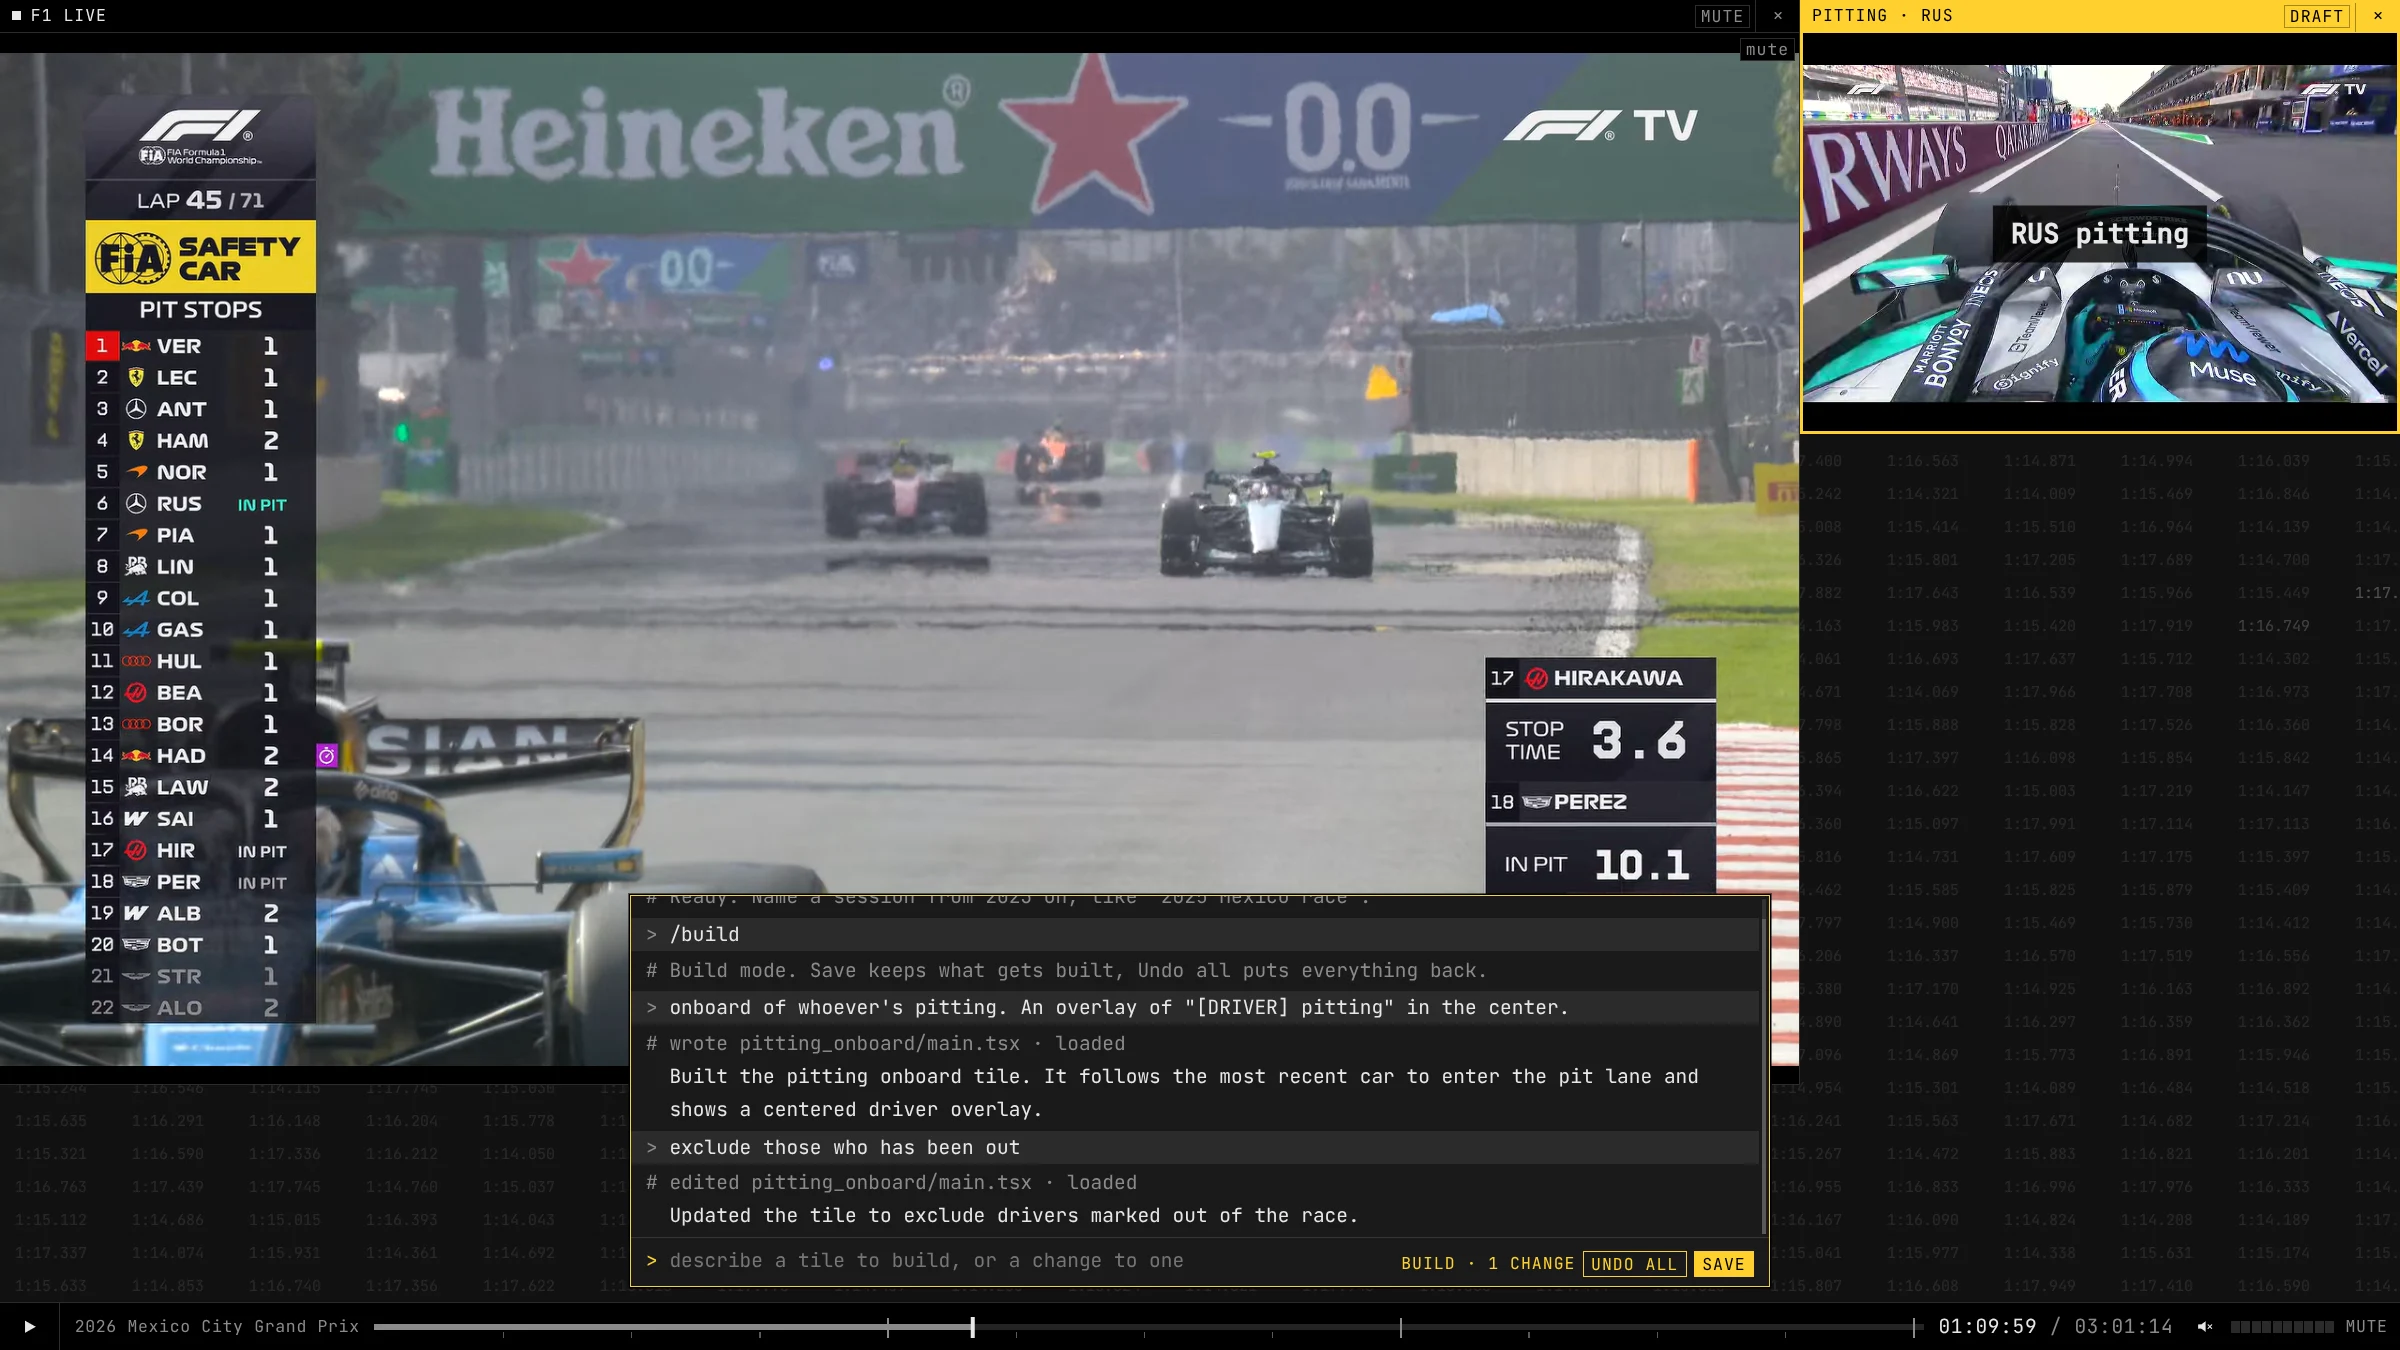
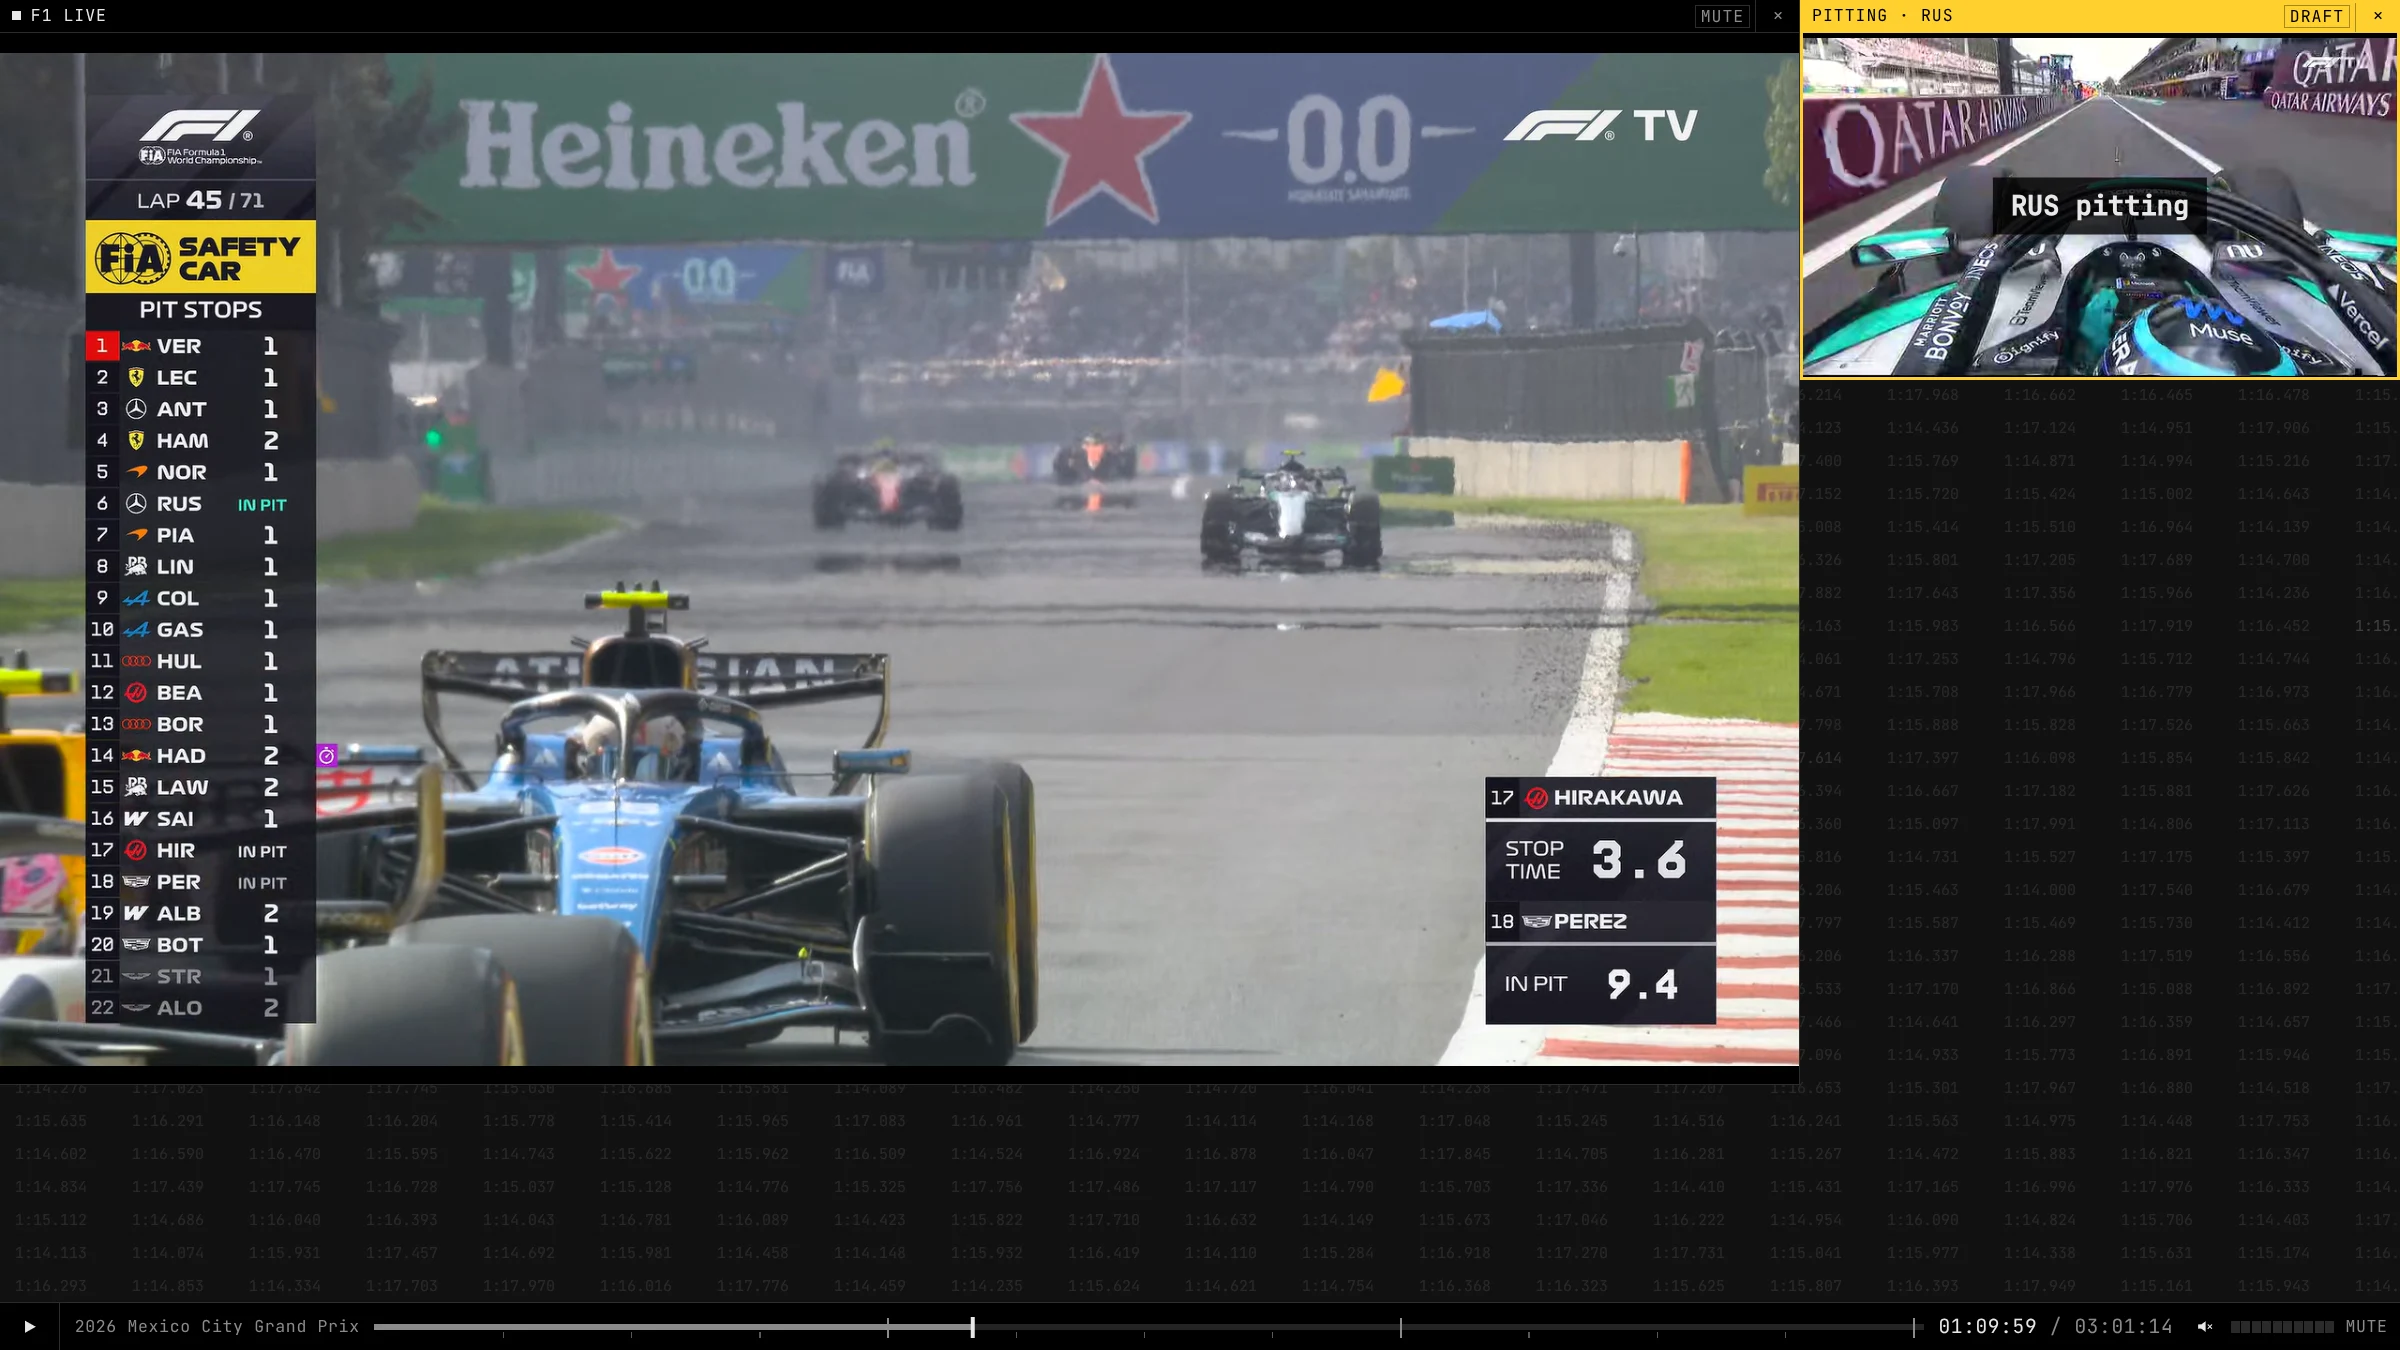
Show the hero's /build slide without the palette
The build slide now reveals shot 3b: the same moment and layout as shot 3, with the yellow DRAFT tile and no
palette, like the other slides. Build mode keeps the palette open, so it was hidden for the screenshot only. The tile
was built fresh with the slide's prompt so it reads DRAFT.

diff --git a/site/src/assets/shots/hero/SHOTS.md b/site/src/assets/shots/hero/SHOTS.md
@@ -9,7 +9,7 @@ design canvas's `Main.dc.html`.
 
 Page slots:
 
-- [x] **H1 · hero.** The page rotates five, each after its prompt is typed: shots 8b, 1, 3, 5b and 2. They're the ones with the palette closed, since the page types the prompt itself, except shot 3, where the build palette and the yellow draft tile are what shows build mode.
+- [x] **H1 · hero.** The page rotates five, each after its prompt is typed: shots 8b, 1, 3b, 5b and 2. They're the ones with the palette closed, since the page types the prompt itself.
 - [x] **M1 · spoiler check, then the jump.** Shots 6d and 6e, cropped to 16:9 with the seek bar. The section plays them as screens: the race on lap 22 (6d), dimmed while the prompt types and the spoiler check is answered, then Verstappen on Hamilton on lap 37 (6e), then a beat of black before it starts over. The palette between them is drawn by the page, so shots 6a, 6b and 6c aren't used.
 - [x] **B1 · build draft, then Save.** Shots 3 and 4.
 - [x] **S1 · suggestion strip with live previews.** Shot 7.
@@ -41,6 +41,7 @@ From the first hero list:
 | [shot1-onboards.png](https://github.com/natheihei/oh-my-f1-viewer/blob/assets/landing-shots/shot1-onboards.png?raw=true) | Onboards of the top 10, and jump to 10 seconds before lights out | 2026 Mexico City Grand Prix · 0:08:32, lap 1 of 71 | The world feed with five red lights and the grid formed up, and ten onboards: HAM, VER, RUS, NOR, LEC, HAD, ANT, LIN, GAS, HUL |
 | [shot2-ham-lec.png](https://github.com/natheihei/oh-my-f1-viewer/blob/assets/landing-shots/shot2-ham-lec.png?raw=true) | All charts focusing on HAM vs. LEC | 2026 Mexico City Grand Prix · 0:21:34, lap 10 of 71 | The world feed, both onboards, and 15 charts on the two Ferraris: pit window ×2, timing tower, gap, sectors, speed ribbon ×2, telemetry ×2, pedals ×2, tyres, tyre deg, pit windows, track map |
 | [shot3-build-pitting.png](https://github.com/natheihei/oh-my-f1-viewer/blob/assets/landing-shots/shot3-build-pitting.png?raw=true) | /build onboard of whoever's pitting. An overlay of "[DRIVER] pitting" in the center. | 2026 Mexico City Grand Prix · 1:09:59, lap 45 of 71, under the safety car | Build mode: the yellow palette with the prompt, "wrote pitting_onboard/main.tsx · loaded", a follow-up, `build · 1 change`, Undo all and Save. The draft tile, framed in yellow, shows RUS's onboard in the pit lane with "RUS pitting" over it, and the world feed shows RUS IN PIT. The window had been resized, so this was taken with the page's viewport set to 1600×900 over the devtools protocol |
+| [shot3b-build-draft-closed.png](https://github.com/natheihei/oh-my-f1-viewer/blob/assets/landing-shots/shot3b-build-draft-closed.png?raw=true) | /build, then onboard of whoever's pitting. An overlay of "[DRIVER] pitting" in the center. | Same frame as shot 3 | For H1. Shot 3 without the palette: the draft tile, framed in yellow with DRAFT, shows RUS's onboard in the pit lane with "RUS pitting" over it. Build mode keeps the palette open, so it was hidden with a style for the screenshot only. Built fresh in build mode with the prompt (the tile from shot 3 set aside first), so it reads DRAFT and not EDITED, then undone |
 | [shot4-build-saved.png](https://github.com/natheihei/oh-my-f1-viewer/blob/assets/landing-shots/shot4-build-saved.png?raw=true) | (after Save on shot 3's build) | Same frame as shot 3 | Build mode left with Save: `pitting_onboard` is an ordinary tile now, with "PITTING · RUS" and no yellow draft frame. Only two tiles, so the lower third shows the backdrop |
 | [shot5-battle-lead.png](https://github.com/natheihei/oh-my-f1-viewer/blob/assets/landing-shots/shot5-battle-lead.png?raw=true) | the battle for the race lead | 2026 Mexico City Grand Prix · 1:56:07, just after lap 48 ends (lap 49 of 71) | The world feed and the battle tile: VER and HAM onboards for P1, 0.6 s apart, over the list of fights (P4 LEC–NOR, P5 NOR–RUS, …). The palette shows the prompt and "Suggested Battle; you can select the fight for the lead in the tile." |
 | [shot5b-battle-lead-closed.png](https://github.com/natheihei/oh-my-f1-viewer/blob/assets/landing-shots/shot5b-battle-lead-closed.png?raw=true) | the battle for the race lead (typed by the page) | 2026 Mexico City Grand Prix · 1:56:10, lap 49 of 71 | Shot 5 again with the palette closed, for the hero. The battle tile was put on by hand and opened on HAD–SAI, its closest fight, so the P1 VER–HAM row was picked in the tile |
